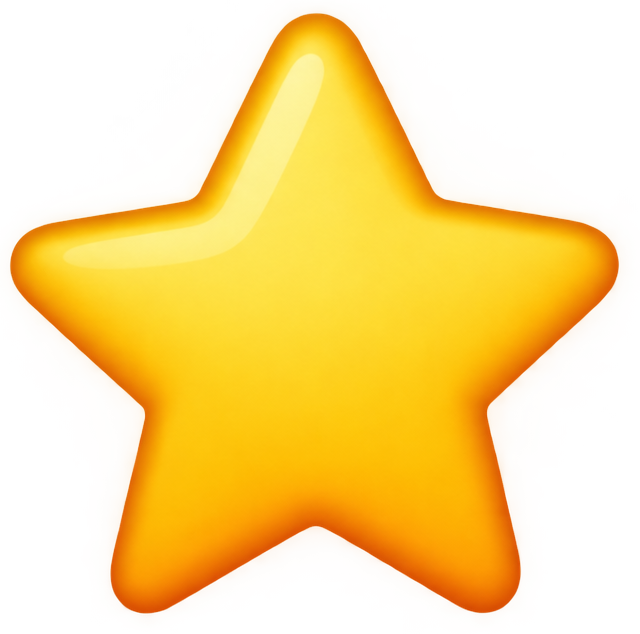
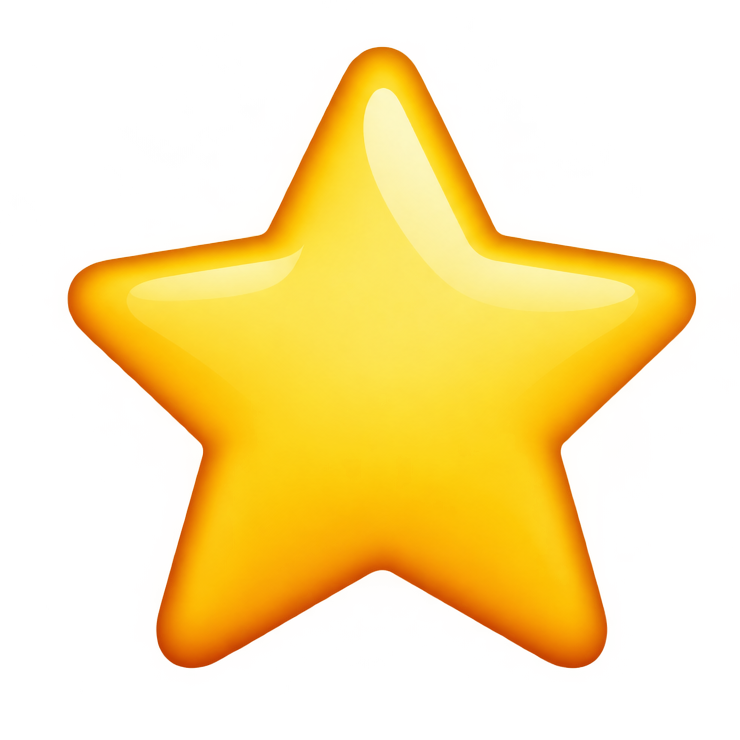
Add item art and full demand star ratings

Changed region(s): [[0.0, 0.0, 0.9688, 0.989]]

diff --git a/src/market-theme.css b/src/market-theme.css
@@ -859,34 +859,34 @@ main { padding: 0 clamp(18px, 3vw, 52px); }
 .rarity-filter-chip.rarity-beta { --rarity-dot: #ffd33d; }
 .rarity-filter-chip.rarity-all { color: #fff; }
 
-/* The supplied star art replaces the old five-icon rating display. */
-.demand-stars { display: inline-flex; align-items: center; gap: 5px; color: #ffe47c; }
-.demand-single-star { display: block; width: 18px; height: 18px; flex: none; object-fit: contain; filter: drop-shadow(0 1px 4px #ff9d1850); }
-.demand-score { color: #f1d77e; font-size: 11px; font-weight: 800; white-space: nowrap; }
-.demand-stars.unrated .demand-single-star { filter: grayscale(1); opacity: .45; }
+/* Game star sprites show full, half and empty demand values. */
+.demand-stars { display: inline-flex; align-items: center; gap: 3px; }
+.demand-star { position: relative; display: inline-grid; width: 19px; height: 21px; flex: none; place-items: center; line-height: 0; }
+.demand-star-art { display: block; width: 100%; height: 100%; object-fit: contain; }
 .demand-stars.unrated .demand-score { color: #888; }
-.demand-stars.interactive { display: inline-flex; min-height: 42px; gap: 9px; }
-.demand-stars.interactive .demand-rating-slider { --demand-star-thumb: url('/brand/demand-star-full.png'); appearance: none; width: 150px; height: 34px; margin: 0; padding: 0; border: 0; background: transparent; cursor: pointer; }
-.demand-rating-slider::-webkit-slider-runnable-track { height: 5px; border-radius: 999px; background: linear-gradient(90deg, #6e2fa0, #eab546); box-shadow: inset 0 1px 2px #0008; }
-.demand-rating-slider::-moz-range-track { height: 5px; border-radius: 999px; background: linear-gradient(90deg, #6e2fa0, #eab546); box-shadow: inset 0 1px 2px #0008; }
-.demand-rating-slider::-webkit-slider-thumb { appearance: none; width: 30px; height: 30px; margin-top: -13px; border: 0; background: var(--demand-star-thumb) center/contain no-repeat; filter: drop-shadow(0 2px 3px #0009); }
-.demand-rating-slider::-moz-range-thumb { width: 30px; height: 30px; border: 0; background: var(--demand-star-thumb) center/contain no-repeat; filter: drop-shadow(0 2px 3px #0009); }
-.demand-rating-slider:focus-visible { outline: 2px solid #d593ff; outline-offset: 4px; border-radius: 5px; }
-.demand-stars.interactive .demand-current { min-width: 38px; color: #ffe08b; font-size: 13px; font-weight: 900; text-align: center; }
+.demand-stars.interactive { min-height: 42px; gap: 4px; }
+.demand-stars.interactive .demand-star { width: 27px; height: 29px; transition: transform .14s ease; }
+.demand-stars.interactive .demand-star:hover { transform: scale(1.08); }
+.demand-stars.interactive .demand-half-button { position: absolute; inset-block: 0; width: 50%; padding: 0; border: 0; border-radius: 0; background: transparent; box-shadow: none; cursor: pointer; }
+.demand-stars.interactive .demand-half-left { left: 0; }
+.demand-stars.interactive .demand-half-right { right: 0; }
+.demand-stars.interactive .demand-star:has(.demand-half-button:focus-visible) { outline: 2px solid #ffe08b; outline-offset: 2px; border-radius: 4px; }
+.demand-stars.interactive .demand-current { min-width: 38px; margin-left: 4px; color: #ffe08b; font-size: 13px; font-weight: 900; text-align: center; }
 .demand-stars.interactive .clear-demand { width: auto; min-width: 54px; padding: 0 10px; border-color: #785894; background: #38115b; color: #eee1f5; font-size: 11px; }
-.card-demand .demand-stars { gap: 4px; }
-.card-demand .demand-single-star { width: 15px; height: 15px; }
-.card-demand .demand-score { font-size: 10px; }
+.demand-score { margin-left: 3px; color: #f1d77e; font-size: 11px; font-weight: 800; white-space: nowrap; }
+.card-demand .demand-stars { gap: 1px; }
+.card-demand .demand-star { width: 13px; height: 15px; }
+.card-demand .demand-score { margin-left: 3px; font-size: 9px; }
 .card-demand .demand-stars svg { display: none; }
-.detail-demand .demand-single-star { width: 20px; height: 20px; }
+.detail-demand .demand-star { width: 21px; height: 23px; }
 .detail-demand .demand-score { font-size: 13px; }
-.rarity-filter-chip:focus-visible, .demand-rating-slider:focus-visible { outline: 2px solid #dda3ff; outline-offset: 3px; }
+.rarity-filter-chip:focus-visible { outline: 2px solid #dda3ff; outline-offset: 3px; }
 
 @media (max-width: 600px) {
   .rarity-filter-options { flex-wrap: nowrap; overflow-x: auto; padding: 1px 1px 7px; scrollbar-width: thin; }
   .rarity-filter-chip { flex: none; min-height: 32px; padding-inline: 12px; }
   .demand-stars.interactive { flex-wrap: wrap; }
-  .demand-stars.interactive .demand-rating-slider { width: min(150px, 48vw); }
+  .demand-stars.interactive .demand-star { width: 25px; height: 27px; }
 }
 
 @media (max-width: 700px) {

diff --git a/src/App.tsx b/src/App.tsx
@@ -397,16 +397,21 @@ function PriceHistoryChart({ item, history }: { item: Item; history: PricePoint[
 }
 
 function DemandStars({ rating, interactive = false, onChange }: { rating: number | null; interactive?: boolean; onChange?: (value: number | null) => void }) {
-  const thumb = rating != null && rating % 1 !== 0 ? '/brand/demand-star-half.png' : '/brand/demand-star-full.png'
-  return <div className={`demand-stars${interactive ? ' interactive' : ''}${rating == null ? ' unrated' : ''}`} role={interactive ? 'group' : 'img'} aria-label={rating == null ? 'Demand not rated' : `Demand: ${rating} out of 5`}>
-    {interactive ? <>
-      <input className="demand-rating-slider" type="range" min="0.5" max="5" step="0.5" value={rating ?? 0.5} aria-label="Community demand rating" aria-valuetext={rating == null ? 'Not rated' : `${rating} out of 5`} style={{ '--demand-star-thumb': `url(${thumb})` } as React.CSSProperties} onChange={event => onChange?.(Number(event.target.value))} />
-      <span className="demand-current" aria-live="polite">{rating == null ? '—' : `${rating}/5`}</span>
-      {rating != null && <button type="button" className="clear-demand" aria-label="Clear demand rating" onClick={() => onChange?.(null)}>Clear</button>}
-    </> : <>
-      <img className="demand-single-star" src="/brand/demand-star-full.png" alt="" />
-      <span className="demand-score">{rating == null ? 'Not rated' : `${rating}/5`}</span>
-    </>}
+  const fillFor = (index: number) => Math.max(0, Math.min(1, (rating ?? 0) - index))
+  return <div className={`demand-stars${interactive ? ' interactive' : ''}${rating == null ? ' unrated' : ''}`} role={interactive ? 'radiogroup' : 'img'} aria-label={rating == null ? 'Demand not rated' : `Demand: ${rating} out of 5 stars`}>
+    {Array.from({ length: 5 }, (_, index) => {
+      const fill = fillFor(index)
+      const image = fill >= 1 ? '/brand/demand-star-full.png' : fill >= 0.5 ? '/brand/demand-star-half.png' : '/brand/demand-star-empty.png'
+      return <span className="demand-star" key={index}>
+        <img className="demand-star-art" src={image} alt="" />
+        {interactive && <>
+          <button type="button" className="demand-half-button demand-half-left" role="radio" aria-checked={rating === index + 0.5} aria-label={`${index + 0.5} out of 5 stars`} onClick={() => onChange?.(index + 0.5)} />
+          <button type="button" className="demand-half-button demand-half-right" role="radio" aria-checked={rating === index + 1} aria-label={`${index + 1} out of 5 stars`} onClick={() => onChange?.(index + 1)} />
+        </>}
+      </span>
+    })}
+    <span className={interactive ? 'demand-current' : 'demand-score'} aria-live={interactive ? 'polite' : undefined}>{rating == null ? '—' : `${rating}/5`}</span>
+    {interactive && rating != null && <button type="button" className="clear-demand" aria-label="Clear demand rating" onClick={() => onChange?.(null)}>Clear</button>}
   </div>
 }
 

diff --git a/src/catalogImages.ts b/src/catalogImages.ts
@@ -89,4 +89,18 @@ export const sourceImages = [
   '/catalog/community/halloween-potion.webp',
   '/catalog/community/halloween-sort.webp',
   '/catalog/community/halloween-zumba.webp',
+  '/catalog/community/arcane.png',
+  '/catalog/community/aura-edit.png',
+  '/catalog/community/chronos.png',
+  '/catalog/community/pulsar.png',
+  '/catalog/community/surcharge.png',
+  '/catalog/community/top-1.png',
+  '/catalog/community/diamond-wings.png',
+  '/catalog/community/rainbow.png',
+  '/catalog/community/azure.png',
+  '/catalog/community/blood.png',
+  '/catalog/community/bolt.png',
+  '/catalog/community/impossible-boss.png',
+  '/catalog/community/unlabeled-car-1.png',
+  '/catalog/community/unlabeled-car-2.png',
 ] as const;

diff --git a/scripts/crop_catalog.py b/scripts/crop_catalog.py
@@ -22,6 +22,14 @@ ADDITIONAL_IMAGES = [
         "halloween-potion", "halloween-sort", "halloween-zumba",
     )
 ]
+NEW_INTAKE_IMAGES = [
+    f"/catalog/community/{name}.png"
+    for name in (
+        "arcane", "aura-edit", "chronos", "pulsar", "surcharge", "top-1",
+        "diamond-wings", "rainbow", "azure", "blood", "bolt", "impossible-boss",
+        "unlabeled-car-1", "unlabeled-car-2",
+    )
+]
 
 SHEETS = [
     ("Capture_decran_2026-10-26_a_15.51.35.webp", [27, 251, 474, 698, 922, 1145, 1369]),
@@ -123,7 +131,7 @@ def main() -> None:
         "/catalog/Capture_decran_2026-10-26_a_15.51.58.webp",
         "/catalog/Capture_decran_2026-10-26_a_15.52.03.webp",
     ]
-    image_entries = [*legacy_images, *entries, *ADDITIONAL_IMAGES]
+    image_entries = [*legacy_images, *entries, *ADDITIONAL_IMAGES, *NEW_INTAKE_IMAGES]
     lines = ["// Generated by scripts/crop_catalog.py; images stay manually assignable.",
              "export const sourceImages = [", *[f"  {path!r}," for path in image_entries], "] as const;", ""]
     MANIFEST.write_text("\n".join(lines), encoding="utf-8")
